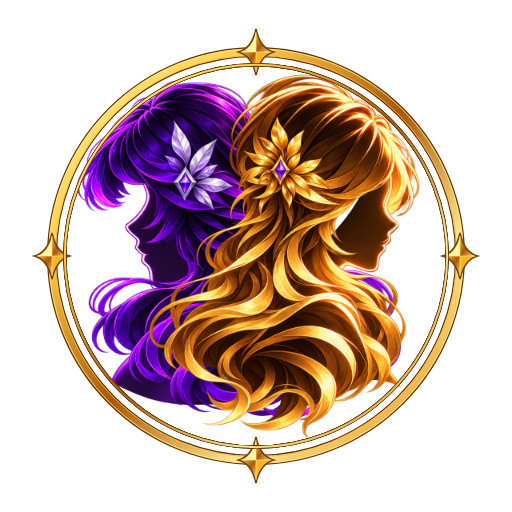
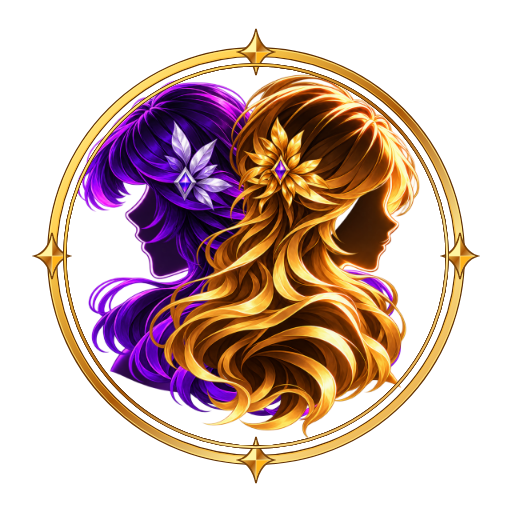
[#221] fix(emblem): strengthen Sol eyes and inference ring visibility

Changed region(s): [[0.25, 0.3438, 0.375, 0.5625], [0.2188, 0.6875, 0.4062, 0.8125]]

diff --git a/apps/stellar-desktop-e2e/src/assistant-response.spec.ts b/apps/stellar-desktop-e2e/src/assistant-response.spec.ts
@@ -85,6 +85,30 @@ test('waiting restores full presence, long content scrolls intact and Ivy closes
     'animation-play-state',
     'paused',
   );
+  const selectAppearance = (model: 'terra' | 'sol') =>
+    page.evaluate((model) => {
+      const root = document.querySelector('stellar-root');
+      if (!root) throw new Error('Missing application');
+      const debug = window as unknown as {
+        ng: {
+          getComponent(element: Element): {
+            voice: { setModel(model: 'terra' | 'sol'): void };
+          };
+        };
+      };
+      debug.ng.getComponent(root).voice.setModel(model);
+    }, model);
+  await selectAppearance('sol');
+  await expect(page.locator('.sol-ring')).toHaveCount(1);
+  await expect(page.locator('.emblem-presence')).toHaveCSS('opacity', '1');
+  await expect(page.locator('.camera')).toHaveCSS('opacity', '0.68');
+  await expect(page.locator('.sol-ring')).toHaveCSS(
+    'vector-effect',
+    'non-scaling-stroke',
+  );
+  await selectAppearance('terra');
+  await expect(page.locator('.sol-ring')).toHaveCount(0);
+  await expect(page.locator('.emblem-presence')).toHaveCSS('opacity', '0.68');
   const body =
     '🪐 <script>literal</script> "\\\n'.repeat(10000) + 'COMPLETE END';
   await page.evaluate((body) => {

diff --git a/libs/ui/molecules/src/lib/molecules/emblem-motion-molecule.component.css b/libs/ui/molecules/src/lib/molecules/emblem-motion-molecule.component.css
@@ -39,17 +39,21 @@ img {
   overflow: visible;
   color: var(--stellar-color-sol, #ff2525);
   filter: drop-shadow(
-    0 0 0.3cqw
-      color-mix(in srgb, var(--stellar-color-sol, #ff2525) 45%, transparent)
+    0 0 0.5cqw
+      color-mix(in srgb, var(--stellar-color-sol, #ff2525) 65%, transparent)
   );
 }
 .sol-ring {
   fill: none;
   stroke: currentColor;
-  stroke-width: 6;
+  stroke-width: clamp(1.2px, 0.45cqw, 2.5px);
+  vector-effect: non-scaling-stroke;
 }
 .sol-eye {
   fill: currentColor;
+}
+.sol-eye-core {
+  fill: #fff0db;
 }
 .sol-enter {
   animation: sol-arrive 360ms ease both;
@@ -84,6 +88,12 @@ img {
 
 .waiting-response .emblem-presence {
   transform: scale(0.86);
+  opacity: 0.68;
+}
+.waiting-response.sol-identity .emblem-presence {
+  opacity: 1;
+}
+.waiting-response.sol-identity .camera {
   opacity: 0.68;
 }
 

diff --git a/libs/ui/molecules/src/lib/molecules/emblem-motion-molecule.component.html b/libs/ui/molecules/src/lib/molecules/emblem-motion-molecule.component.html
@@ -83,7 +83,11 @@
           <circle class="sol-ring" cx="640" cy="640" r="510" />
           <path
             class="sol-eye"
-            d="M352 531 380 523 358 534Z M949 515 971 524 953 523Z"
+            d="M344 508 Q363 493 390 498 Q369 514 344 508Z M916 537 Q940 535 966 553 Q942 553 916 537Z"
+          />
+          <path
+            class="sol-eye-core"
+            d="M351 506 Q367 498 383 499 Q367 508 351 506Z M924 540 Q941 540 959 550 Q941 548 924 540Z"
           />
         </svg>
       }

diff --git a/libs/ui/molecules/src/lib/molecules/emblem-motion-molecule.component.ts b/libs/ui/molecules/src/lib/molecules/emblem-motion-molecule.component.ts
@@ -117,6 +117,7 @@ export class EmblemMotionMolecule {
       'motion-paused': this.paused(),
       'motion-reduced': this.motionReduced(),
       'waiting-response': this.showWaiting(),
+      'sol-identity': this.solActive(),
       'with-environment': this.environment(),
       'idle-motion': idleMotionEnabled(this.phase(), this.paused()),
     }),

diff --git a/apps/stellar-desktop/public/emblem/provenance.md b/apps/stellar-desktop/public/emblem/provenance.md
@@ -2,14 +2,14 @@
 
 Runtime files are byte-identical copies from [the production-v1 source pack](https://github.com/DanielssonThomas/Stellar/blob/develop/libs/stellar-emblem/production-v1/README.md). Issue #176 supplied the hybrid raster artwork and editable SVG geometry; #204 composes its four stars into the outer frame, adds three matching inner circles and assigns eleven uniformly spaced logical planes. #211 divides each existing body into three registered clips, yielding fifteen logical planes over the same eleven image files. The manifest retains production-candidate status. All files share a 1280 square origin and all assembled transforms remain zero. The #221 correction re-registers the two body exports inside their hair apertures; all six generated source cutouts remain unchanged, as do the other four exported raster images.
 
-The exported runtime payload is 2,743,954 bytes for the manifest and eleven unique registered image files. Text newline conventions can change that count on another platform. Original references, generated masters, registration, history and previews remain in the source library. Imagegen supplied the original raster artwork; #221 only changes deterministic registration. Native performance and physical microphones require separate verification.
+The exported runtime payload is 2,743,982 bytes for the manifest and eleven unique registered image files. Text newline conventions can change that count on another platform. Original references, generated masters, registration, history and previews remain in the source library. Imagegen supplied the original raster artwork; #221 only changes deterministic registration. Native performance and physical microphones require separate verification.
 
 Copy integrity was checked byte-for-byte against source files on this checkout. SHA-256 hashes below normalize JSON/SVG text to LF and preserve exact PNG bytes.
 
 | Runtime file               | SHA-256                                                          |
 | -------------------------- | ---------------------------------------------------------------- |
 | manifest.json              | 5d19f26cbeb4bd01eaa4cec1963eaaecb281087179b36b0c537128e3ef2dd992 |
-| layers/violet-body.png     | c77ca373d592c55ce75b96255d54fff58af82dbcb1c67d6fa786671016de3d04 |
+| layers/violet-body.png     | a32c4cc76d2472fb4fe71403e0c510f4f7594b42eb2c9ca846fe543f2b46e3a4 |
 | layers/violet-hair.png     | 5ca76606302c0758dd55b520c5ce0cd751bda9e9b8c827ff2e78920c19938da3 |
 | layers/violet-ornament.png | 693fdcba33e399e0585d05c27ca3fac38b93bd66d4d61c0cd08ecdd0647d09ef |
 | layers/gold-body.png       | e4f0044e8b4a320b312c0071596cf0d91912136915cb322fec9dd96446aa3e9c |

diff --git a/libs/stellar-emblem/production-v1/README.md b/libs/stellar-emblem/production-v1/README.md
@@ -28,7 +28,7 @@ The original #176 independent image-capable review accepted the visual direction
 
 ## Registered face fragmentation (#211)
 
-The #221 candidate moves the gold ornament in front of its own hair in the exploded depth order. Previously its depth stayed behind the hair until every plane reached zero, at which point paint order abruptly made it visible. Both ornaments now retain the same front-to-back relationship during assembly. It also raises the violet body by 20 source units and moves it right by 9, and raises the gold body by 30 units and moves it right by 7. This re-registers the untouched source cutouts inside their hair apertures and aligns the gold nose with the existing hair contour. The two body exports and composed previews change; the six original generated sources and all other exported images retain their original pixels. Every assembled transform remains zero. Native evidence and comparison with the supplied canonical reference determine visual acceptance, not the zero-pose invariant alone.
+The #221 candidate moves the gold ornament in front of its own hair in the exploded depth order. Previously its depth stayed behind the hair until every plane reached zero, at which point paint order abruptly made it visible. Both ornaments now retain the same front-to-back relationship during assembly. It also raises the violet body by 50 source units and moves it right by 9, and raises the gold body by 30 units and moves it right by 7. This re-registers the untouched source cutouts inside their hair apertures and aligns the gold nose with the existing hair contour. The two body exports and composed previews change; the six original generated sources and all other exported images retain their original pixels. Every assembled transform remains zero. Native evidence and comparison with the supplied canonical reference determine visual acceptance, not the zero-pose invariant alone.
 
 The emblem molecule also accepts an explicit `solActive` presentation input. Once assembly actually settles, it reveals a single red circle concentric with the existing outer gold circle and two narrow eye glints; the effect scales with the emblem, fades on removal and respects reduced motion. The app binds this input to the restored persistent voice composition model, including explicit Sol drafting and confirmed reset to Terra. This input communicates selected intent and does not itself verify the actual inference provider or model.
 
